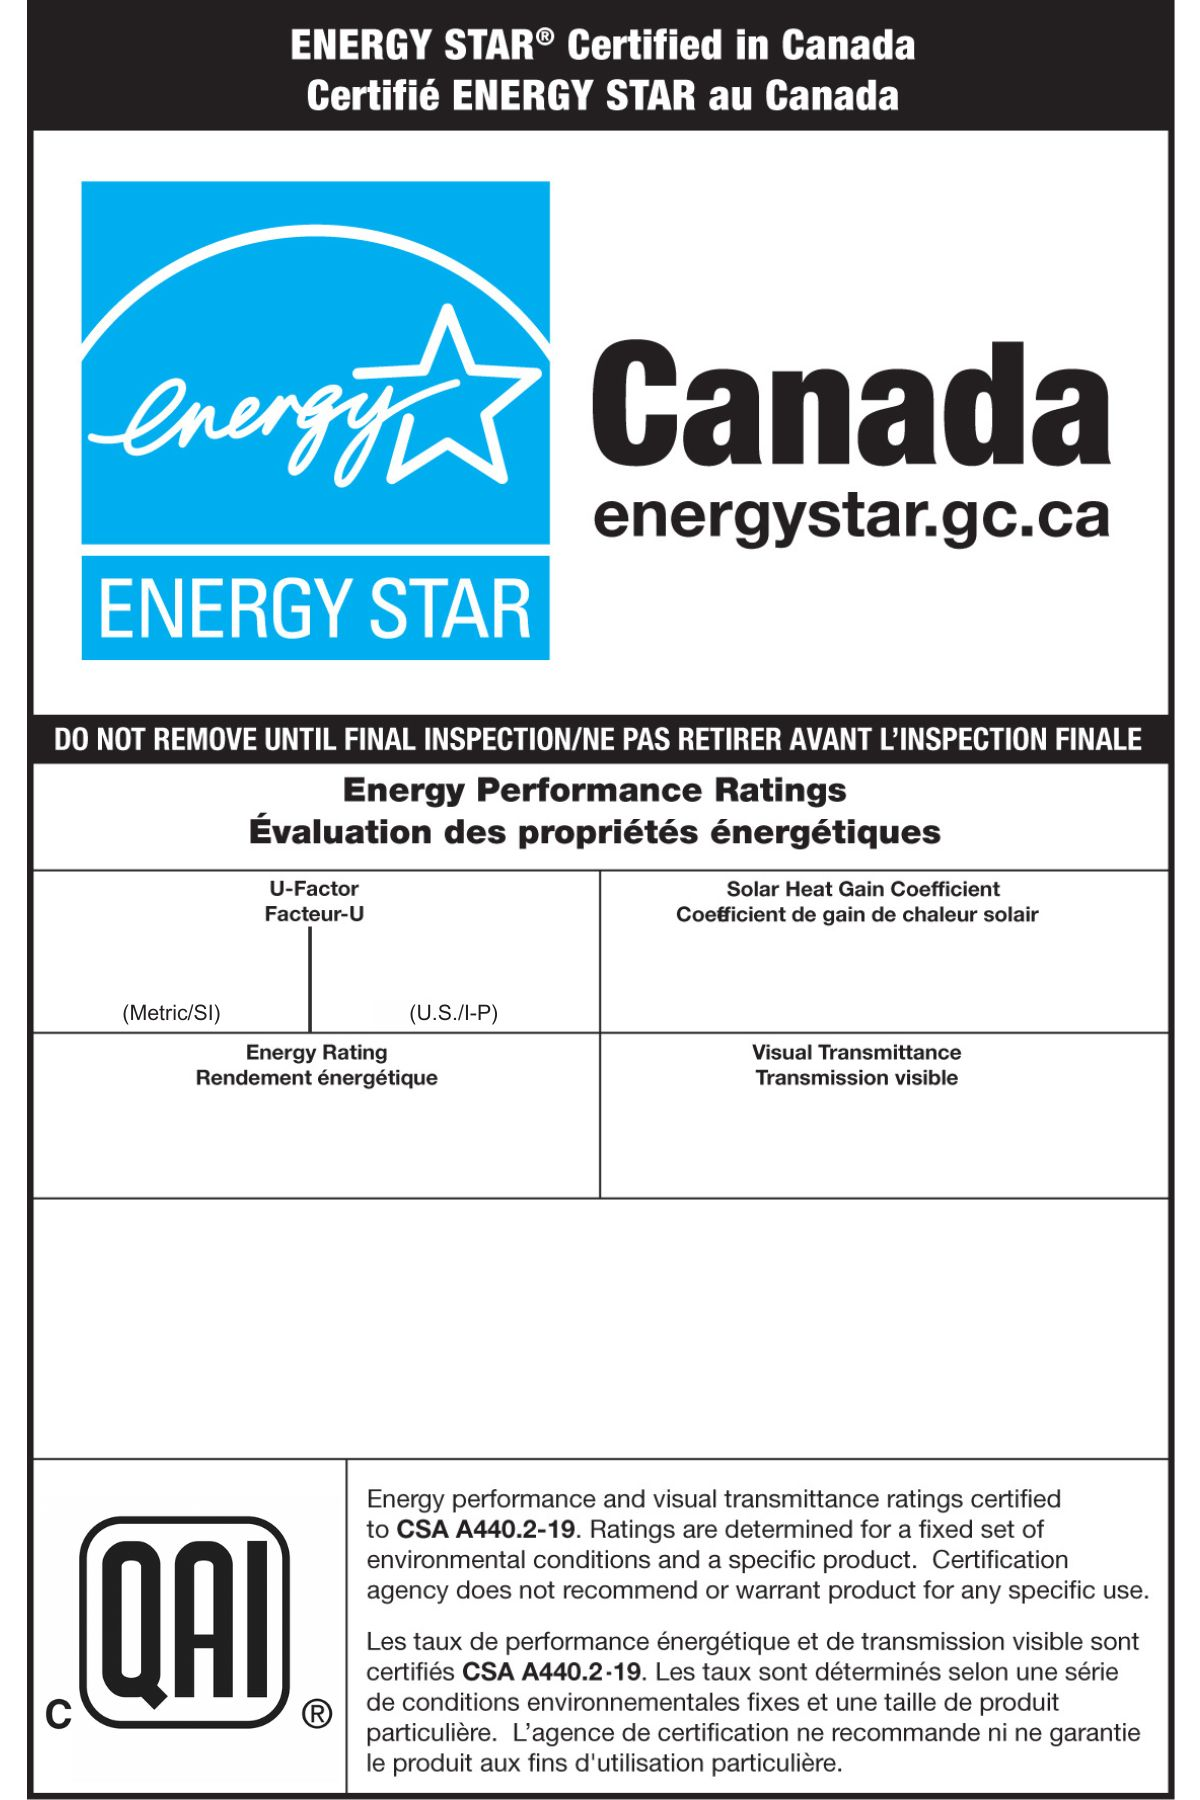
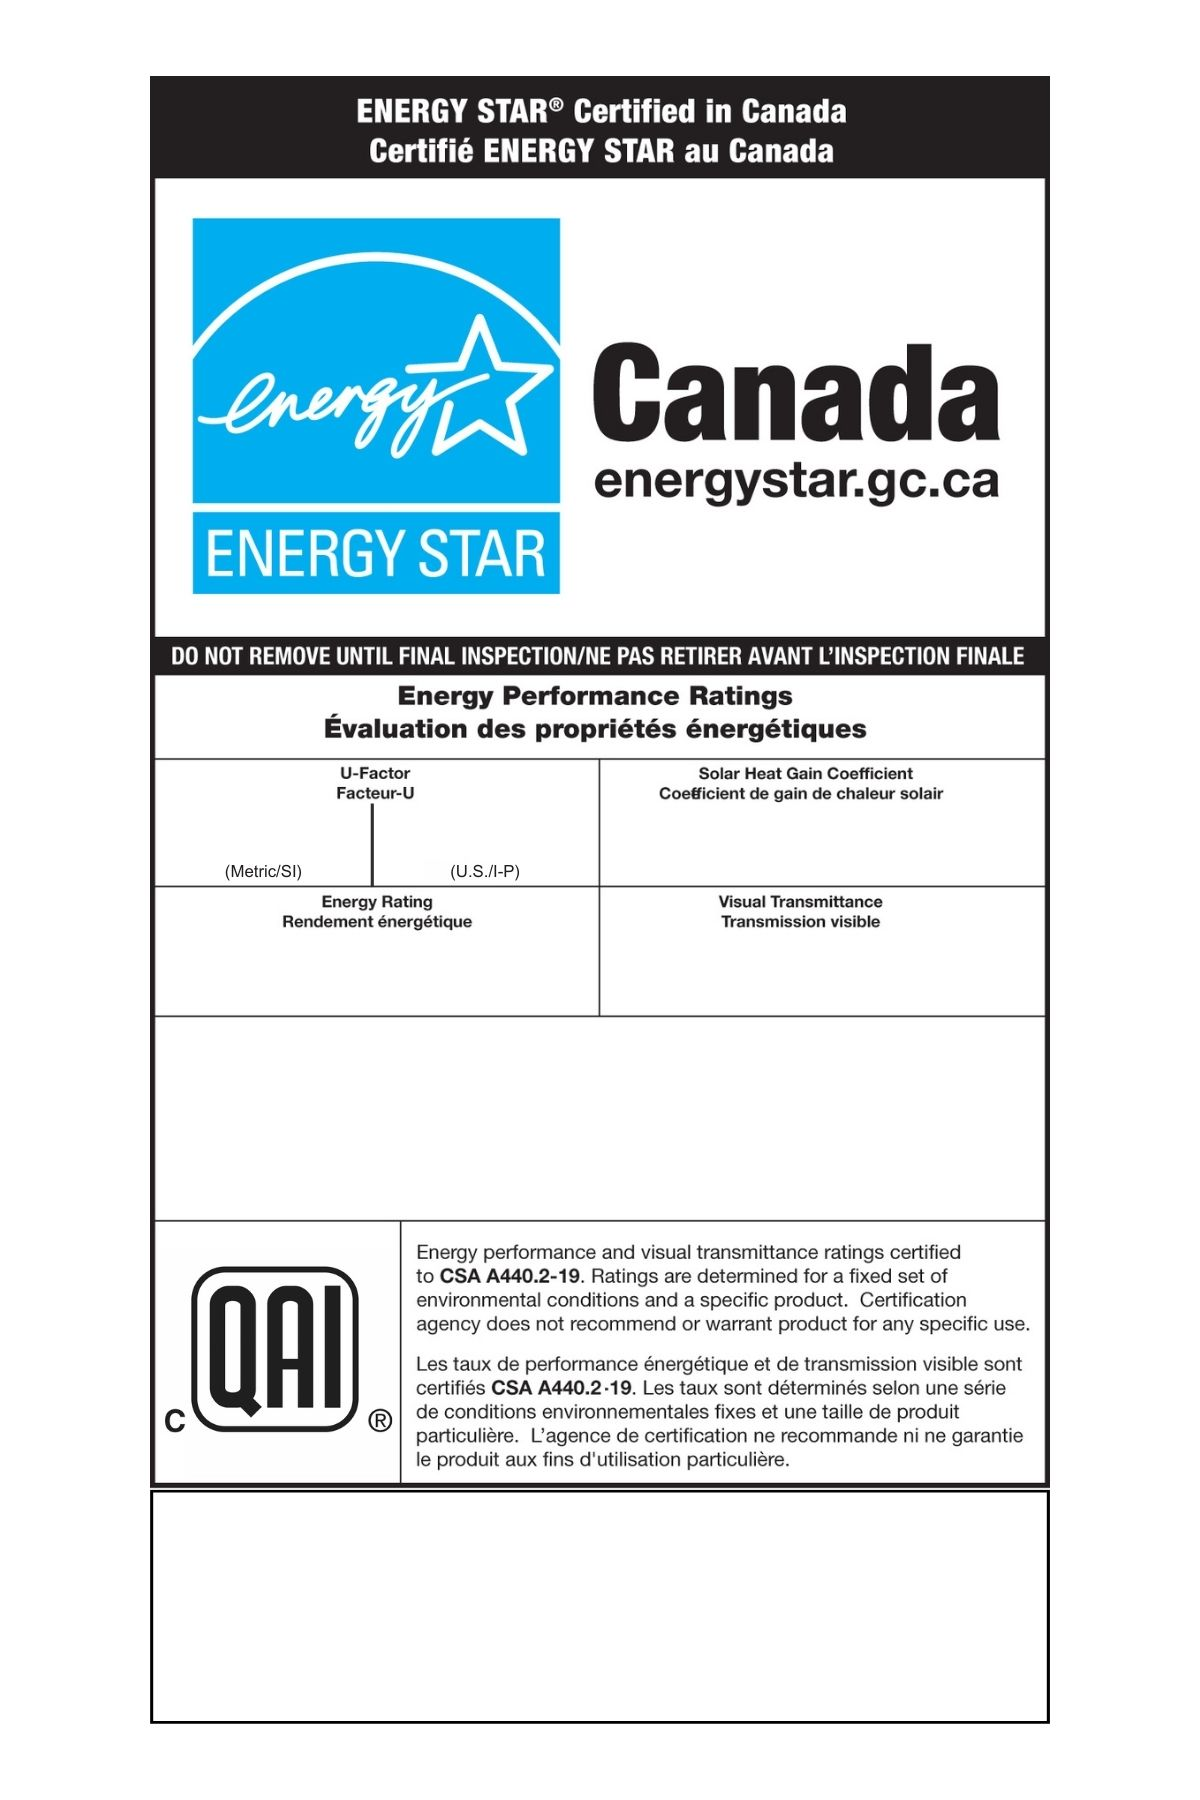
Revert "Removed performance box"
This reverts commit 00137f2a523a4d1986404101de06a35582499987.

diff --git a/src/main/ui/menu/GenerateLabelMenu.java b/src/main/ui/menu/GenerateLabelMenu.java
@@ -145,8 +145,8 @@ public class GenerateLabelMenu extends Menu {
 
             // Adjust paper size to image size
             BufferedImage image = label.generateImage();
-            double paperWidth = image.getWidth();
-            double paperHeight = image.getHeight();
+            double paperWidth = 4 * 72;
+            double paperHeight = 6 * 72;
 
             // Create a margin (in points)
             double margin = 0;
